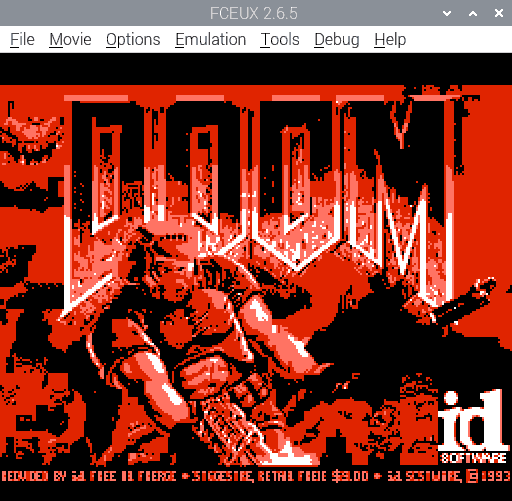
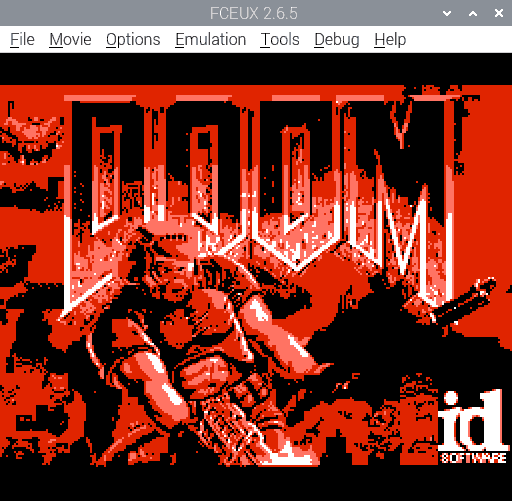
allow other image sizes

diff --git a/png2nesdata.py b/png2nesdata.py
@@ -6,10 +6,6 @@ try:
 except ImportError:
     sys.exit("Pillow module required. See https://python-pillow.org")
 
-# size of input image in attribute blocks (16*16 pixels each)
-IMG_WIDTH  = 16
-IMG_HEIGHT = 14
-
 # palette of input image (red, green, blue)
 INPUT_PALETTE = (
     (0x00, 0x00, 0x00),
@@ -48,9 +44,10 @@ def get_colour_conv_table(image):
 def get_tiles(image):
     # generate each tile as a tuple of 64 2-bit ints
 
-    if image.width != IMG_WIDTH * 16 or image.height != IMG_HEIGHT * 16:
-        sys.exit("Image size must be 256*224 pixels.")
-
+    if not 8 <= image.width <= 256 or image.width % 8 > 0:
+        sys.exit("Image width must be 8-256 and a multiple of 8.")
+    if not 16 <= image.height <= 224 or image.height % 16 > 0:
+        sys.exit("Image height must be 16-224 and a multiple of 16.")
     if image.getcolors(4) is None:
         sys.exit("The image must have 4 colours or less.")
 
@@ -90,15 +87,23 @@ def encode_at_data(atData):
                 | (atData[si+16+1] << 6)
             )
 
-def get_prg_data(ntData, spriteData, outputPal):
+def get_prg_data(ntData, spriteData, outputPal, imgWidth, imgHeight):
     # generate each byte of PRG data;
-    # ntData:     indexes to distinct background tiles;
-    # spriteData: (X, Y, index_to_distinct_sprite_pairs) for each;
+    # ntData:     indexes to distinct background tiles
+    # spriteData: (X, Y, index_to_distinct_sprite_pairs) for each
     # outputPal:  a tuple of 4 ints
+    # imgWidth:   image width  in tiles
+    # imgHeight:  image height in tiles (always even)
 
-    # name table (32*30 bytes)
-    yield from (0x00 for i in range(2 * 32))  # top margin
-    yield from ntData
+    # used for sprite coordinates and background scrolling
+    xOffset = (32 - imgWidth ) * 4
+    yOffset = (30 - imgHeight) * 4
+
+    # name table (32*30 bytes); the image itself is at bottom right
+    yield from (0x00 for i in range((30 - imgHeight) * 32))  # top margin
+    for y in range(imgHeight):
+        yield from (0x00 for i in range(32 - imgWidth))  # left margin
+        yield from ntData[y*imgWidth:(y+1)*imgWidth]
 
     # attribute table (16*15 blocks, 8*8 bytes)
     yield from encode_at_data(16 * 15 * [0b00])
@@ -106,10 +111,10 @@ def get_prg_data(ntData, spriteData, outputPal):
     # sprites (64 * 4 bytes)
     for (i, (x, y, t)) in enumerate(spriteData):
         yield from (
-            y * 16 + 8 - 1,  # Y position minus 1
-            t * 2 + 1,       # tile index
-            0b00000000,      # attributes
-            x * 8,           # X position
+            yOffset + y * 16 - 1,  # Y position minus 1
+            t * 2 + 1,             # tile index
+            0b00000000,            # attributes
+            xOffset + x * 8,       # X position
         )
     for i in range(64 - len(spriteData)):
         yield from (0xff, 0xff, 0xff, 0xff)  # unused (hide)
@@ -118,8 +123,7 @@ def get_prg_data(ntData, spriteData, outputPal):
     for i in range(8):
         yield from outputPal
 
-    # horizontal and vertical scroll
-    yield from (0, 8)
+    yield from (xOffset, yOffset)  # horizontal and vertical background scroll
 
 # --- get_chr_data ------------------------------------------------------------
 
@@ -164,11 +168,13 @@ def parse_arguments():
 
     return (inputFile, outputPal)
 
-def assign_tiles_to_sprites(imgTiles):
+def assign_tiles_to_sprites(imgTiles, imgWidth, imgHeight):
     # assign as many 1*2-tile pairs as possible to sprites instead;
-    # imgTiles: list of image tiles starting from top left, with
-    #           duplicates; each tile is a tuple of 64 2-bit ints
-    # return: (background_tiles, sprite_data)
+    # imgTiles:  list of image tiles starting from top left, with
+    #            duplicates; each tile is a tuple of 64 2-bit ints
+    # imgWidth:  image width  in tiles
+    # imgHeight: image height in tiles (always even)
+    # return:    (background_tiles, sprite_data)
 
     bgTiles = imgTiles.copy()
 
@@ -178,11 +184,11 @@ def assign_tiles_to_sprites(imgTiles):
     # run many rounds to find first the pairs that save the most background
     # tiles
     for round_ in range(6):
-        for sprY in range(14):
-            for sprX in range(32):
+        for sprY in range(imgHeight // 2):
+            for sprX in range(imgWidth):
                 # "up" = upper, "lo" = lower
-                upTilePos =  sprY * 2      * 32 + sprX
-                loTilePos = (sprY * 2 + 1) * 32 + sprX
+                upTilePos =  sprY * 2      * imgWidth + sprX
+                loTilePos = (sprY * 2 + 1) * imgWidth + sprX
 
                 # tile counts: 1 is the best; increasing values are worse;
                 # 0 (a blank tile) is the worst
@@ -214,6 +220,8 @@ def assign_tiles_to_sprites(imgTiles):
                     ))
                     bgTiles[upTilePos] = BLANK_TILE
                     bgTiles[loTilePos] = BLANK_TILE
+        if len(spriteData) == 64:
+            break
 
     return (bgTiles, spriteData)
 
@@ -260,6 +268,8 @@ def main():
             handle.seek(0)
             image = Image.open(handle)
             imgTiles = list(get_tiles(image))
+            imgWidth  = image.width  // 8
+            imgHeight = image.height // 8  # always even
     except OSError:
         sys.exit("Error reading input file.")
 
@@ -271,7 +281,9 @@ def main():
         imgTileIndexes = [distinctImgTiles.index(t) for t in imgTiles]
 
         # assign some background tiles to sprites instead
-        (bgTiles, spriteData) = assign_tiles_to_sprites(imgTiles)
+        (bgTiles, spriteData) = assign_tiles_to_sprites(
+            imgTiles, imgWidth, imgHeight
+        )
         spriteData.sort(key=lambda s: (s[1], s[0]))  # by Y and X
         distinctSpriteTilePairs = tuple(sorted(set(
             (t1, t2) for (x, y, t1, t2) in spriteData
@@ -317,7 +329,9 @@ def main():
     try:
         with open(PRG_OUT_FILE, "wb") as handle:
             handle.seek(0)
-            handle.write(bytes(get_prg_data(ntData, spriteData, outputPal)))
+            handle.write(bytes(get_prg_data(
+                ntData, spriteData, outputPal, imgWidth, imgHeight
+            )))
     except OSError:
         sys.exit(f"Error writing {PRG_OUT_FILE}")
     print(f"Wrote {PRG_OUT_FILE}")

diff --git a/README.md b/README.md
@@ -10,14 +10,16 @@ Table of contents:
 ## Introduction
 Two programs that let you convert an image (e.g. PNG) into an NES ROM that shows the image.
 
-![title screen of shareware DOS Doom in 256&times;200 pixels and 4 shades of red, in FCEUX](snap.png)
+![title screen of shareware DOS Doom in 256&times;192 pixels and 4 shades of red, in FCEUX](snap-doom.png)
+![title screen of shareware DOS Wolfenstein 3D in 256&times;200 pixels and 4 bright colours, in FCEUX](snap-wolf.png)
 
 ## png2nesdata.py
 A Python program that converts an image (e.g. PNG) into NES graphics data. Requires the [Pillow](https://python-pillow.org) module.
 
 Command line arguments: *inputFile outputColour0 outputColour1 outputColour2 outputColour3*
 * *inputFile*: the image file to read:
-  * the size (width&times;height) must be 256&times;224 pixels (32&times;28 NES tiles, 16&times;14 attribute blocks)
+  * the width must be 8&ndash;256 pixels and a multiple of 8 pixels
+  * the height must be 16&ndash;224 pixels and a multiple of 16 pixels
   * may only contain these colours (hexadecimal RRGGBB): `000000`, `555555`, `aaaaaa`, `ffffff`
   * if the image is too complex (has too many distinct tiles), it will be automatically simplified, which reduces the quality and takes a lot of time
 * *outputColour0*&hellip;*outputColour3*: the output palette:
